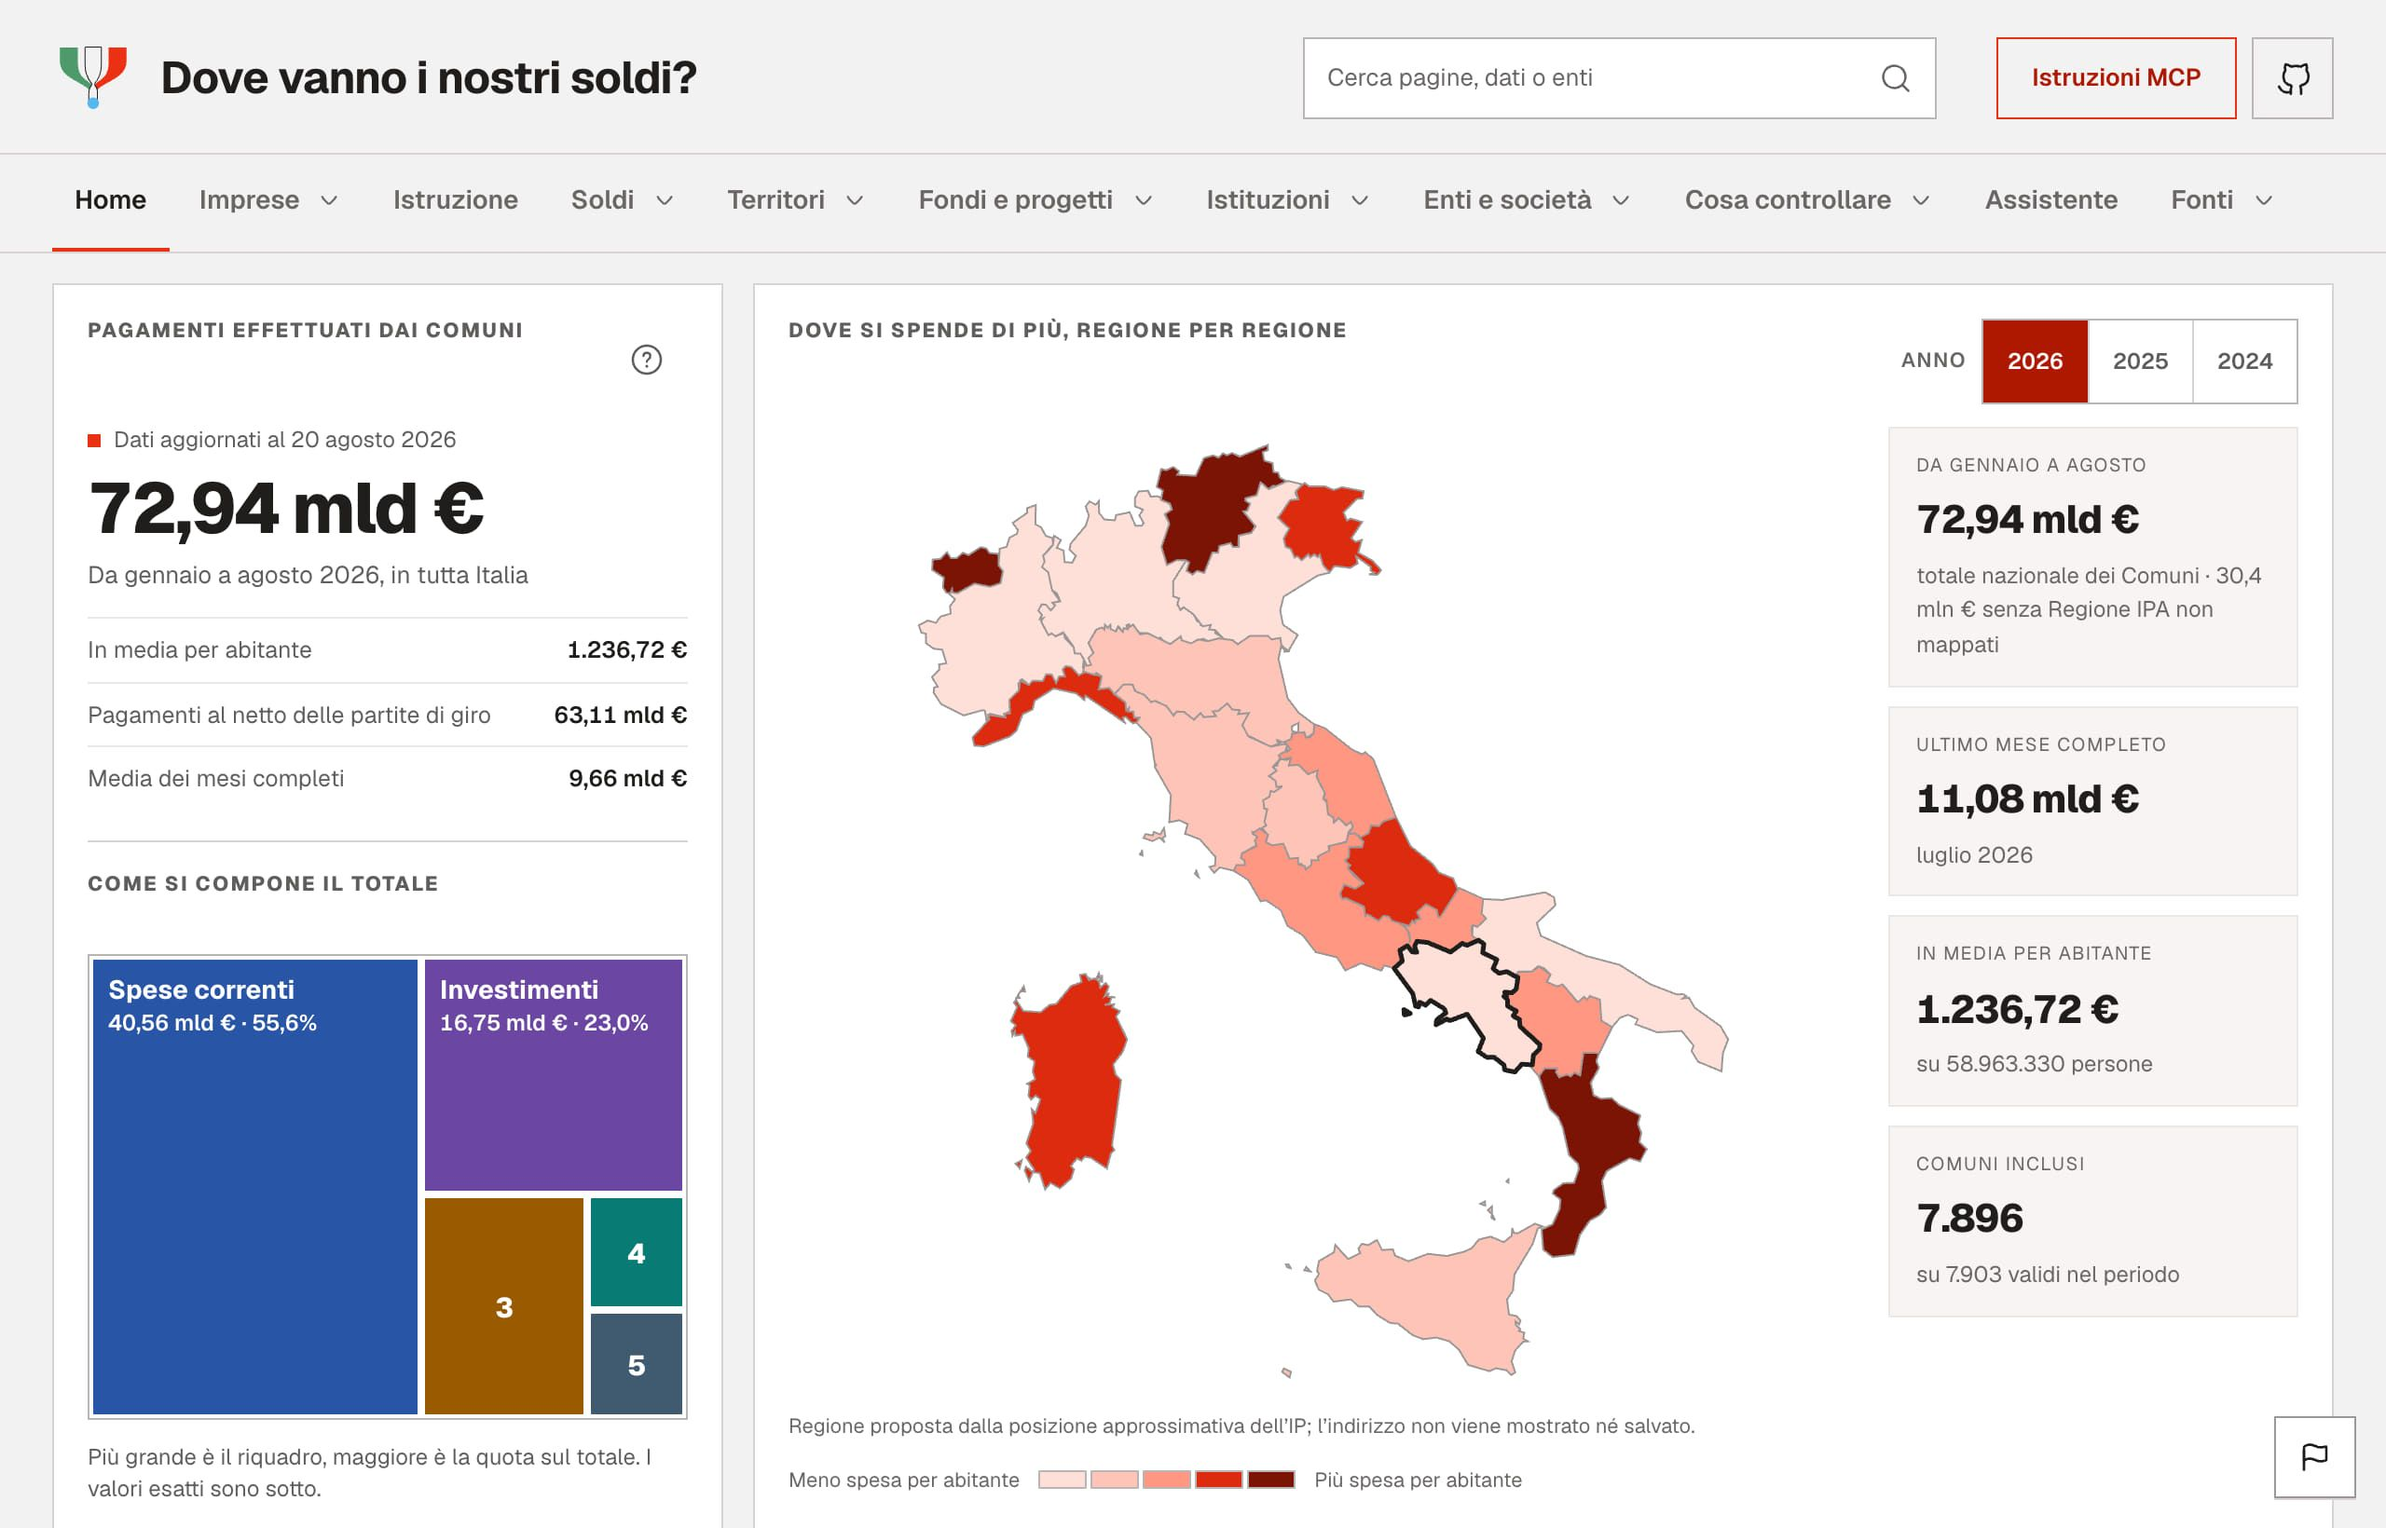
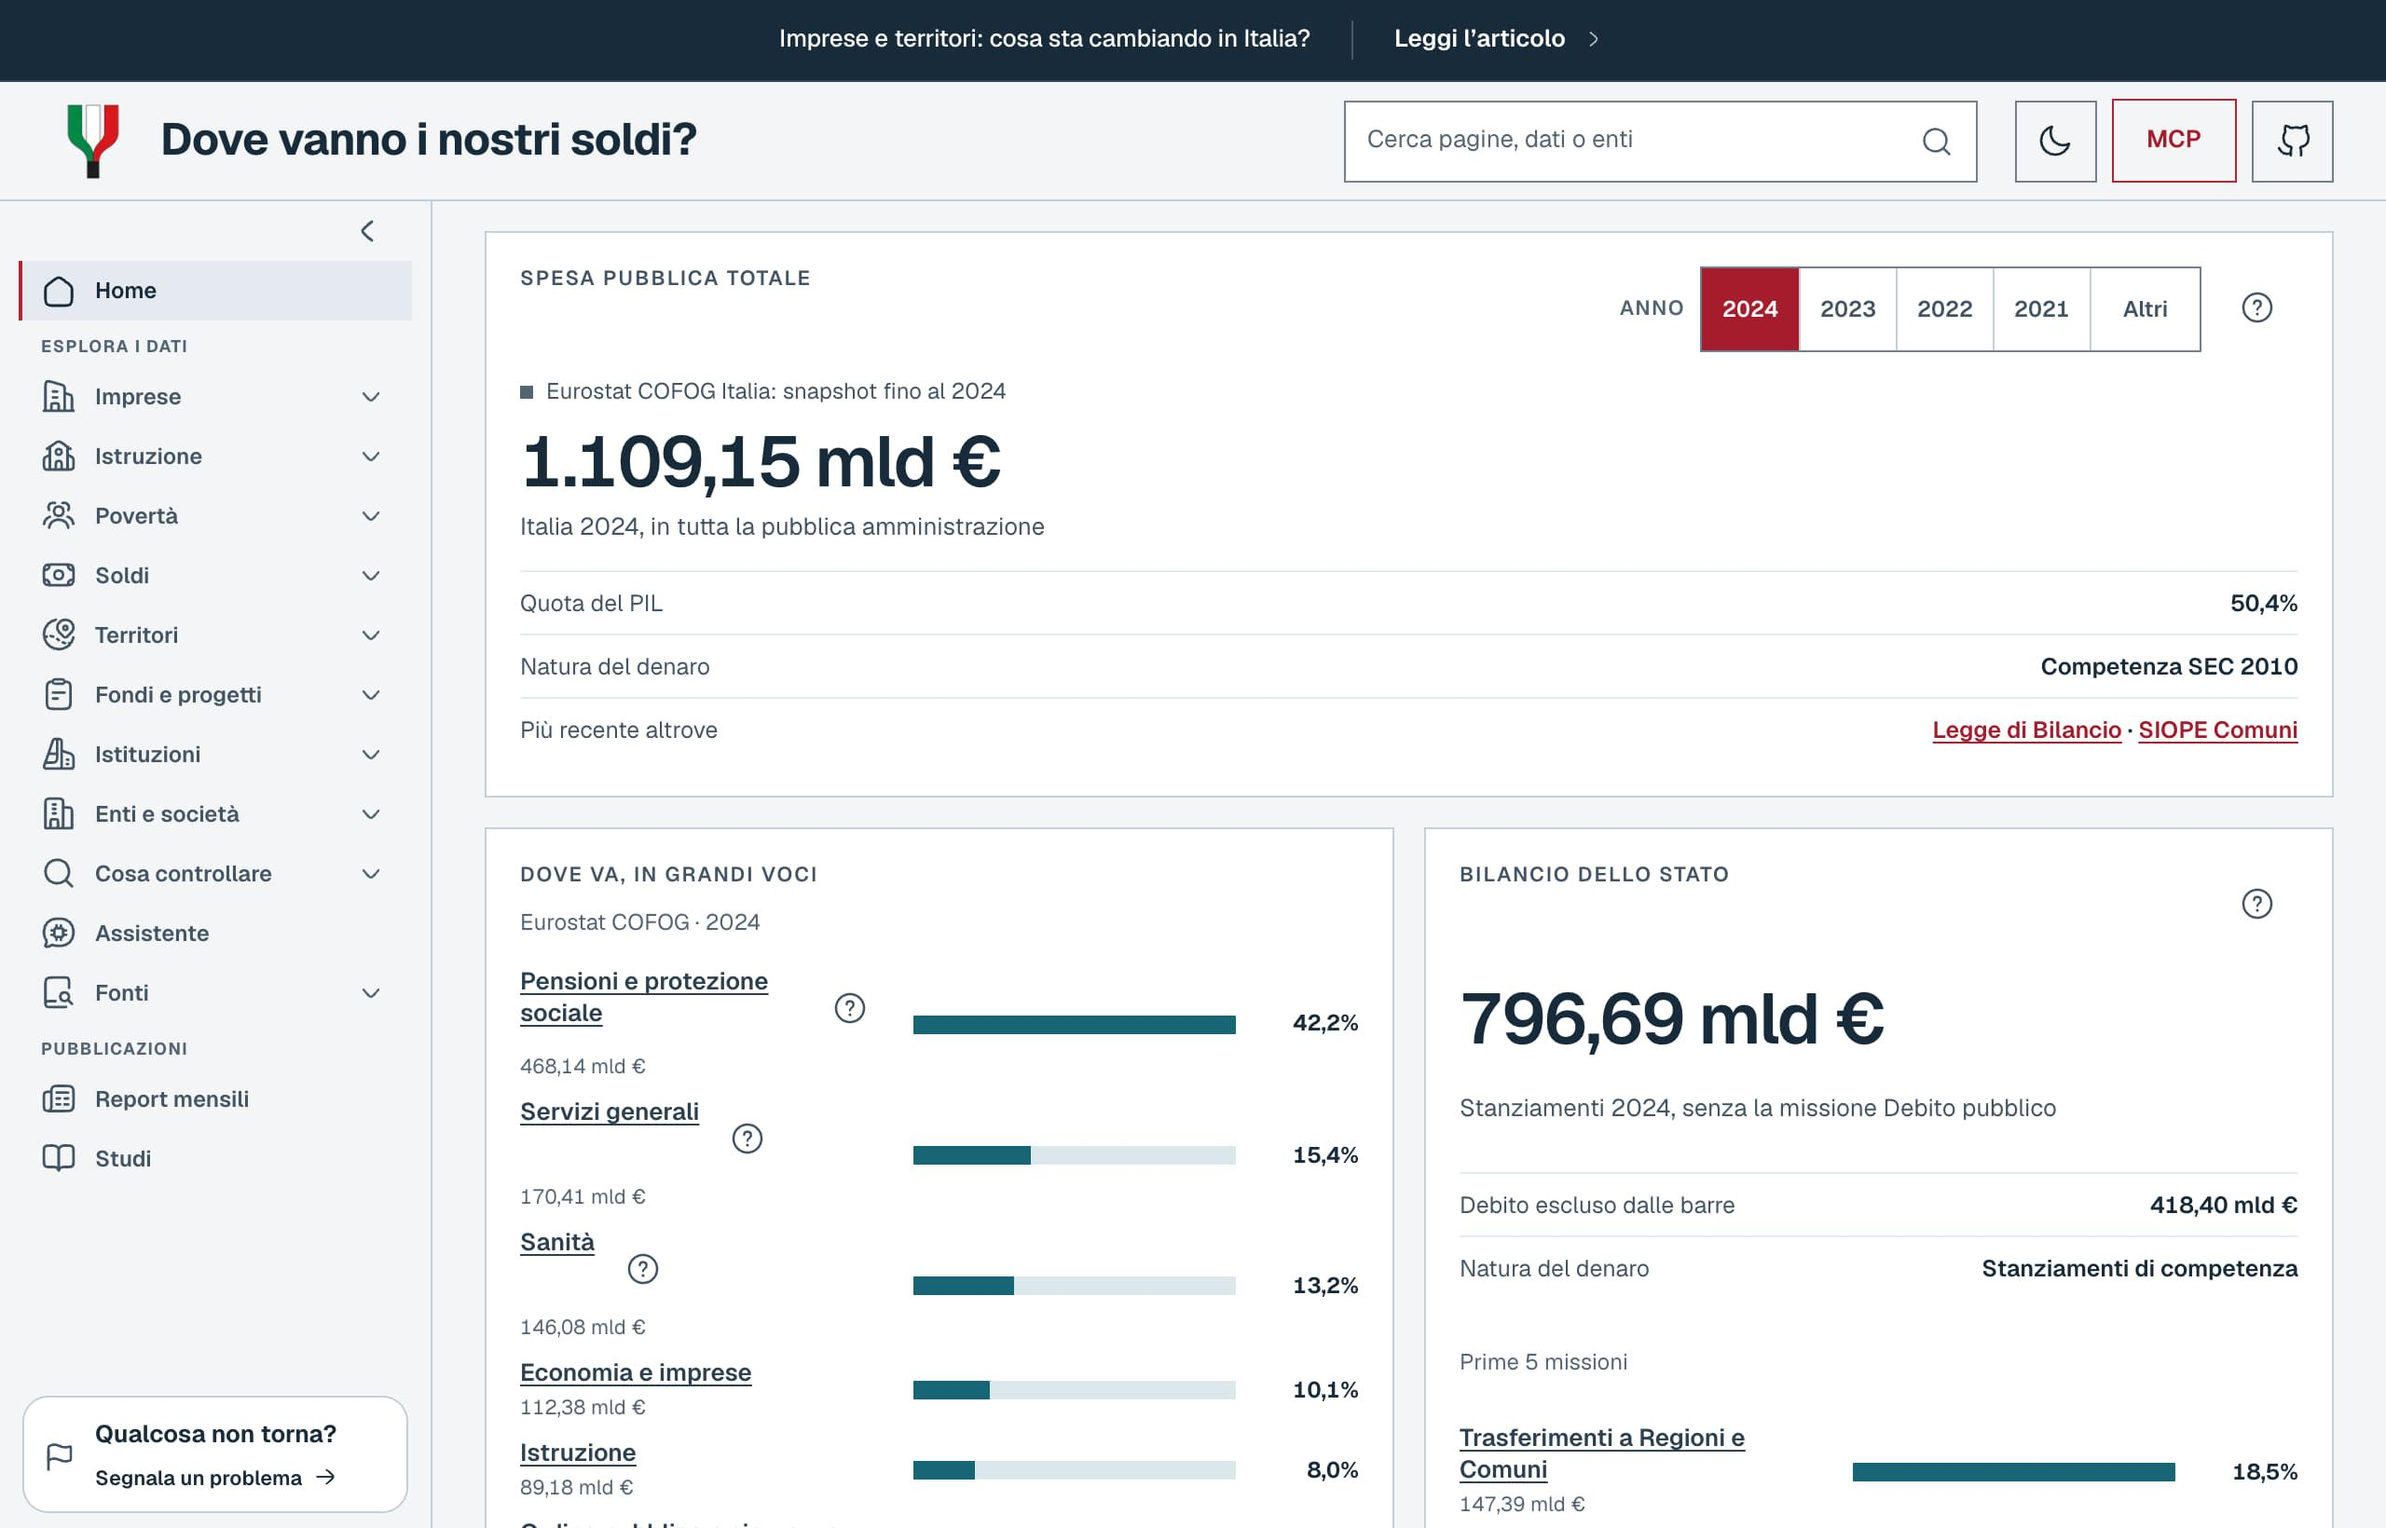
docs(readme): aggiorna screenshot e galleria al design attuale
Allinea le catture al layout istituzionale e alle pagine nuove (opere, operatori, assistente, povertà, stato).

diff --git a/README.md b/README.md
@@ -24,9 +24,9 @@ Bilanci, pagamenti, appalti, debito, partecipazioni e fonti istituzionali esisto
 - Capire rapidamente che cosa il dato misura, e che cosa non misura.
 - Fare domande al catalogo dati e al server MCP in sola lettura.
 
-Oggi il portale copre pagamenti comunali, imprese, istruzione, sanità, pensioni, debito, fondi e progetti, enti, appalti ANAC, segnali da fonti ufficiali e una pagella politico-economica dei governi. Il [registro fonti](https://www.dovevannoinostrisoldi.com/fonti) elenca 33 collegamenti ufficiali. Il [catalogo MCP](https://www.dovevannoinostrisoldi.com/mcp) espone 93 dataset interrogabili in sola lettura. L’[assistente](https://www.dovevannoinostrisoldi.com/assistente) collega la tua AI personale per conversare sui dati verificati del sito e sui documenti che alleghi.
+Oggi il portale copre spesa pubblica (Eurostat COFOG), pagamenti comunali, imprese, istruzione, sanità, pensioni, debito, fondi e progetti, **opere pubbliche (previsto vs effettivo)**, enti, appalti ANAC, povertà, segnali da fonti ufficiali e una pagella politico-economica dei governi. Il [registro fonti](https://www.dovevannoinostrisoldi.com/fonti) elenca 33 collegamenti ufficiali. Il [catalogo MCP](https://www.dovevannoinostrisoldi.com/mcp) espone 93 dataset interrogabili in sola lettura. L’[assistente](https://www.dovevannoinostrisoldi.com/assistente) collega la tua AI personale per conversare sui dati verificati del sito e sui documenti che alleghi.
 
-![Home: pagamenti dei Comuni, mappa regionale e composizione della spesa](docs/readme/home.jpg)
+![Home: spesa pubblica Eurostat COFOG, bilancio dello Stato e pagamenti dei Comuni](docs/readme/home.jpg)
 
 | Territori | Pagella dei governi |
 | --- | --- |
@@ -36,6 +36,10 @@ Oggi il portale copre pagamenti comunali, imprese, istruzione, sanità, pensioni
 | --- | --- |
 | ![Atlante Istruzione: studenti osservati per Regione, anno e percorso](docs/readme/istruzione.jpg) | ![Atlante Imprese: imprese attive per Regione, settore ATECO e periodo](docs/readme/imprese.jpg) |
 
+| Opere pubbliche | Operatori ANAC |
+| --- | --- |
+| ![Opere pubbliche: confronto costo previsto e costo effettivo OpenBDAP MOP](docs/readme/opere.jpg) | ![Appalti: indice nazionale operatori ANAC](docs/readme/appalti-operatori.jpg) |
+
 | Cosa controllare | Catalogo dati |
 | --- | --- |
 | ![Cosa controllare: segnali da fonti ufficiali, con limiti visibili](docs/readme/controlli.jpg) | ![Catalogo dati: dataset integrati, filtri per evidenza e pubblicazione](docs/readme/dati.jpg) |
@@ -44,21 +48,30 @@ Oggi il portale copre pagamenti comunali, imprese, istruzione, sanità, pensioni
 | --- | --- |
 | ![Confronto Comuni: quattro profili OpenCivitas e perimetro 2022](docs/readme/confronto-territori.jpg) | ![Debito pubblico: stock, detentori e interessi da Banca d'Italia ed Eurostat](docs/readme/debito.jpg) |
 
-| Sanità | MCP |
+| Sanità | Spese dello Stato |
 | --- | --- |
-| ![Sanità: voci del Conto economico SSN, personale e servizi](docs/readme/sanita.jpg) | ![Pagina MCP: endpoint pubblico, strumenti list_datasets e query_dataset](docs/readme/mcp.jpg) |
+| ![Sanità: voci del Conto economico SSN, personale e servizi](docs/readme/sanita.jpg) | ![Spese dello Stato: pagamenti OpenBDAP per funzione e amministrazione](docs/readme/stato.jpg) |
+
+| Povertà | Assistente |
+| --- | --- |
+| ![Povertà: indicatori ISTAT assoluta e relativa](docs/readme/poverta.jpg) | ![Assistente: chat sui dati verificati del sito](docs/readme/assistente.jpg) |
+
+| MCP |
+| --- |
+| ![Pagina MCP: endpoint pubblico, strumenti list_datasets e query_dataset](docs/readme/mcp.jpg) |
 
 ## Cosa trovi sul sito
 
 | Sezione | In sintesi |
 | --- | --- |
-| [Home](https://www.dovevannoinostrisoldi.com/) | Pagamenti dei Comuni, mappa regionale, composizione della spesa |
+| [Home](https://www.dovevannoinostrisoldi.com/) | Spesa PA (Eurostat COFOG), bilancio dello Stato e pagamenti dei Comuni |
 | [Imprese](https://www.dovevannoinostrisoldi.com/imprese) | Imprese attive, addetti, localizzazioni e fatturato aggregato (ISTAT) |
 | [Istruzione](https://www.dovevannoinostrisoldi.com/istruzione) | Scuola secondaria di II grado per Regione (MIM) e università/ricerca |
 | [Povertà](https://www.dovevannoinostrisoldi.com/poverta) | Povertà assoluta e relativa (ISTAT) |
 | [Soldi](https://www.dovevannoinostrisoldi.com/spese) | Uscite di cassa comunali (SIOPE), sanità, invalidità, pensioni, ambiente, consulenze |
 | [Territori](https://www.dovevannoinostrisoldi.com/territori) | Confronti per Regione e Comune, profili OpenCivitas, CPT e IRPEF MEF |
 | [Fondi e progetti](https://www.dovevannoinostrisoldi.com/coesione) | OpenCoesione, PNRR Italia Domani, asili e incarichi PNRR |
+| [Opere pubbliche](https://www.dovevannoinostrisoldi.com/opere) | Costo previsto vs effettivo (OpenBDAP MOP), avanzamento e filtri |
 | [Spese dello Stato](https://www.dovevannoinostrisoldi.com/stato) | Pagamenti per funzione e amministrazione (OpenBDAP/RGS) |
 | [Debito pubblico](https://www.dovevannoinostrisoldi.com/debito) | Stock, detentori, scadenze e interessi (Banca d'Italia ed Eurostat) |
 | [Legge di Bilancio](https://www.dovevannoinostrisoldi.com/spese/legge-di-bilancio) | Stanziamenti per missione e riallocazione ipotetica (OpenBDAP, competenza A1) |
@@ -72,7 +85,7 @@ Oggi il portale copre pagamenti comunali, imprese, istruzione, sanità, pensioni
 | [Dati](https://www.dovevannoinostrisoldi.com/dati) | Catalogo integrato interrogabile (93 dataset) |
 | [Report](https://www.dovevannoinostrisoldi.com/report) | Articoli mensili e approfondimenti |
 
-Pagine di dettaglio: [pensioni](https://www.dovevannoinostrisoldi.com/spese/pensioni), [sanità](https://www.dovevannoinostrisoldi.com/spese/sanita), [invalidità civile](https://www.dovevannoinostrisoldi.com/spese/invalidita), [operatori ANAC](https://www.dovevannoinostrisoldi.com/appalti/operatori), [pagella dei governi](https://www.dovevannoinostrisoldi.com/governi), [confronto Comuni](https://www.dovevannoinostrisoldi.com/territori/confronto), [partecipazioni](https://www.dovevannoinostrisoldi.com/partecipazioni), [studio asili PNRR](https://www.dovevannoinostrisoldi.com/studi/dai-fondi-ai-posti).
+Pagine di dettaglio: [pensioni](https://www.dovevannoinostrisoldi.com/spese/pensioni), [sanità](https://www.dovevannoinostrisoldi.com/spese/sanita), [invalidità civile](https://www.dovevannoinostrisoldi.com/spese/invalidita), [operatori ANAC](https://www.dovevannoinostrisoldi.com/appalti/operatori), [opere pubbliche](https://www.dovevannoinostrisoldi.com/opere), [pagella dei governi](https://www.dovevannoinostrisoldi.com/governi), [confronto Comuni](https://www.dovevannoinostrisoldi.com/territori/confronto), [partecipazioni](https://www.dovevannoinostrisoldi.com/partecipazioni), [studio asili PNRR](https://www.dovevannoinostrisoldi.com/studi/dai-fondi-ai-posti).
 
 ## Come leggere il progetto
 
